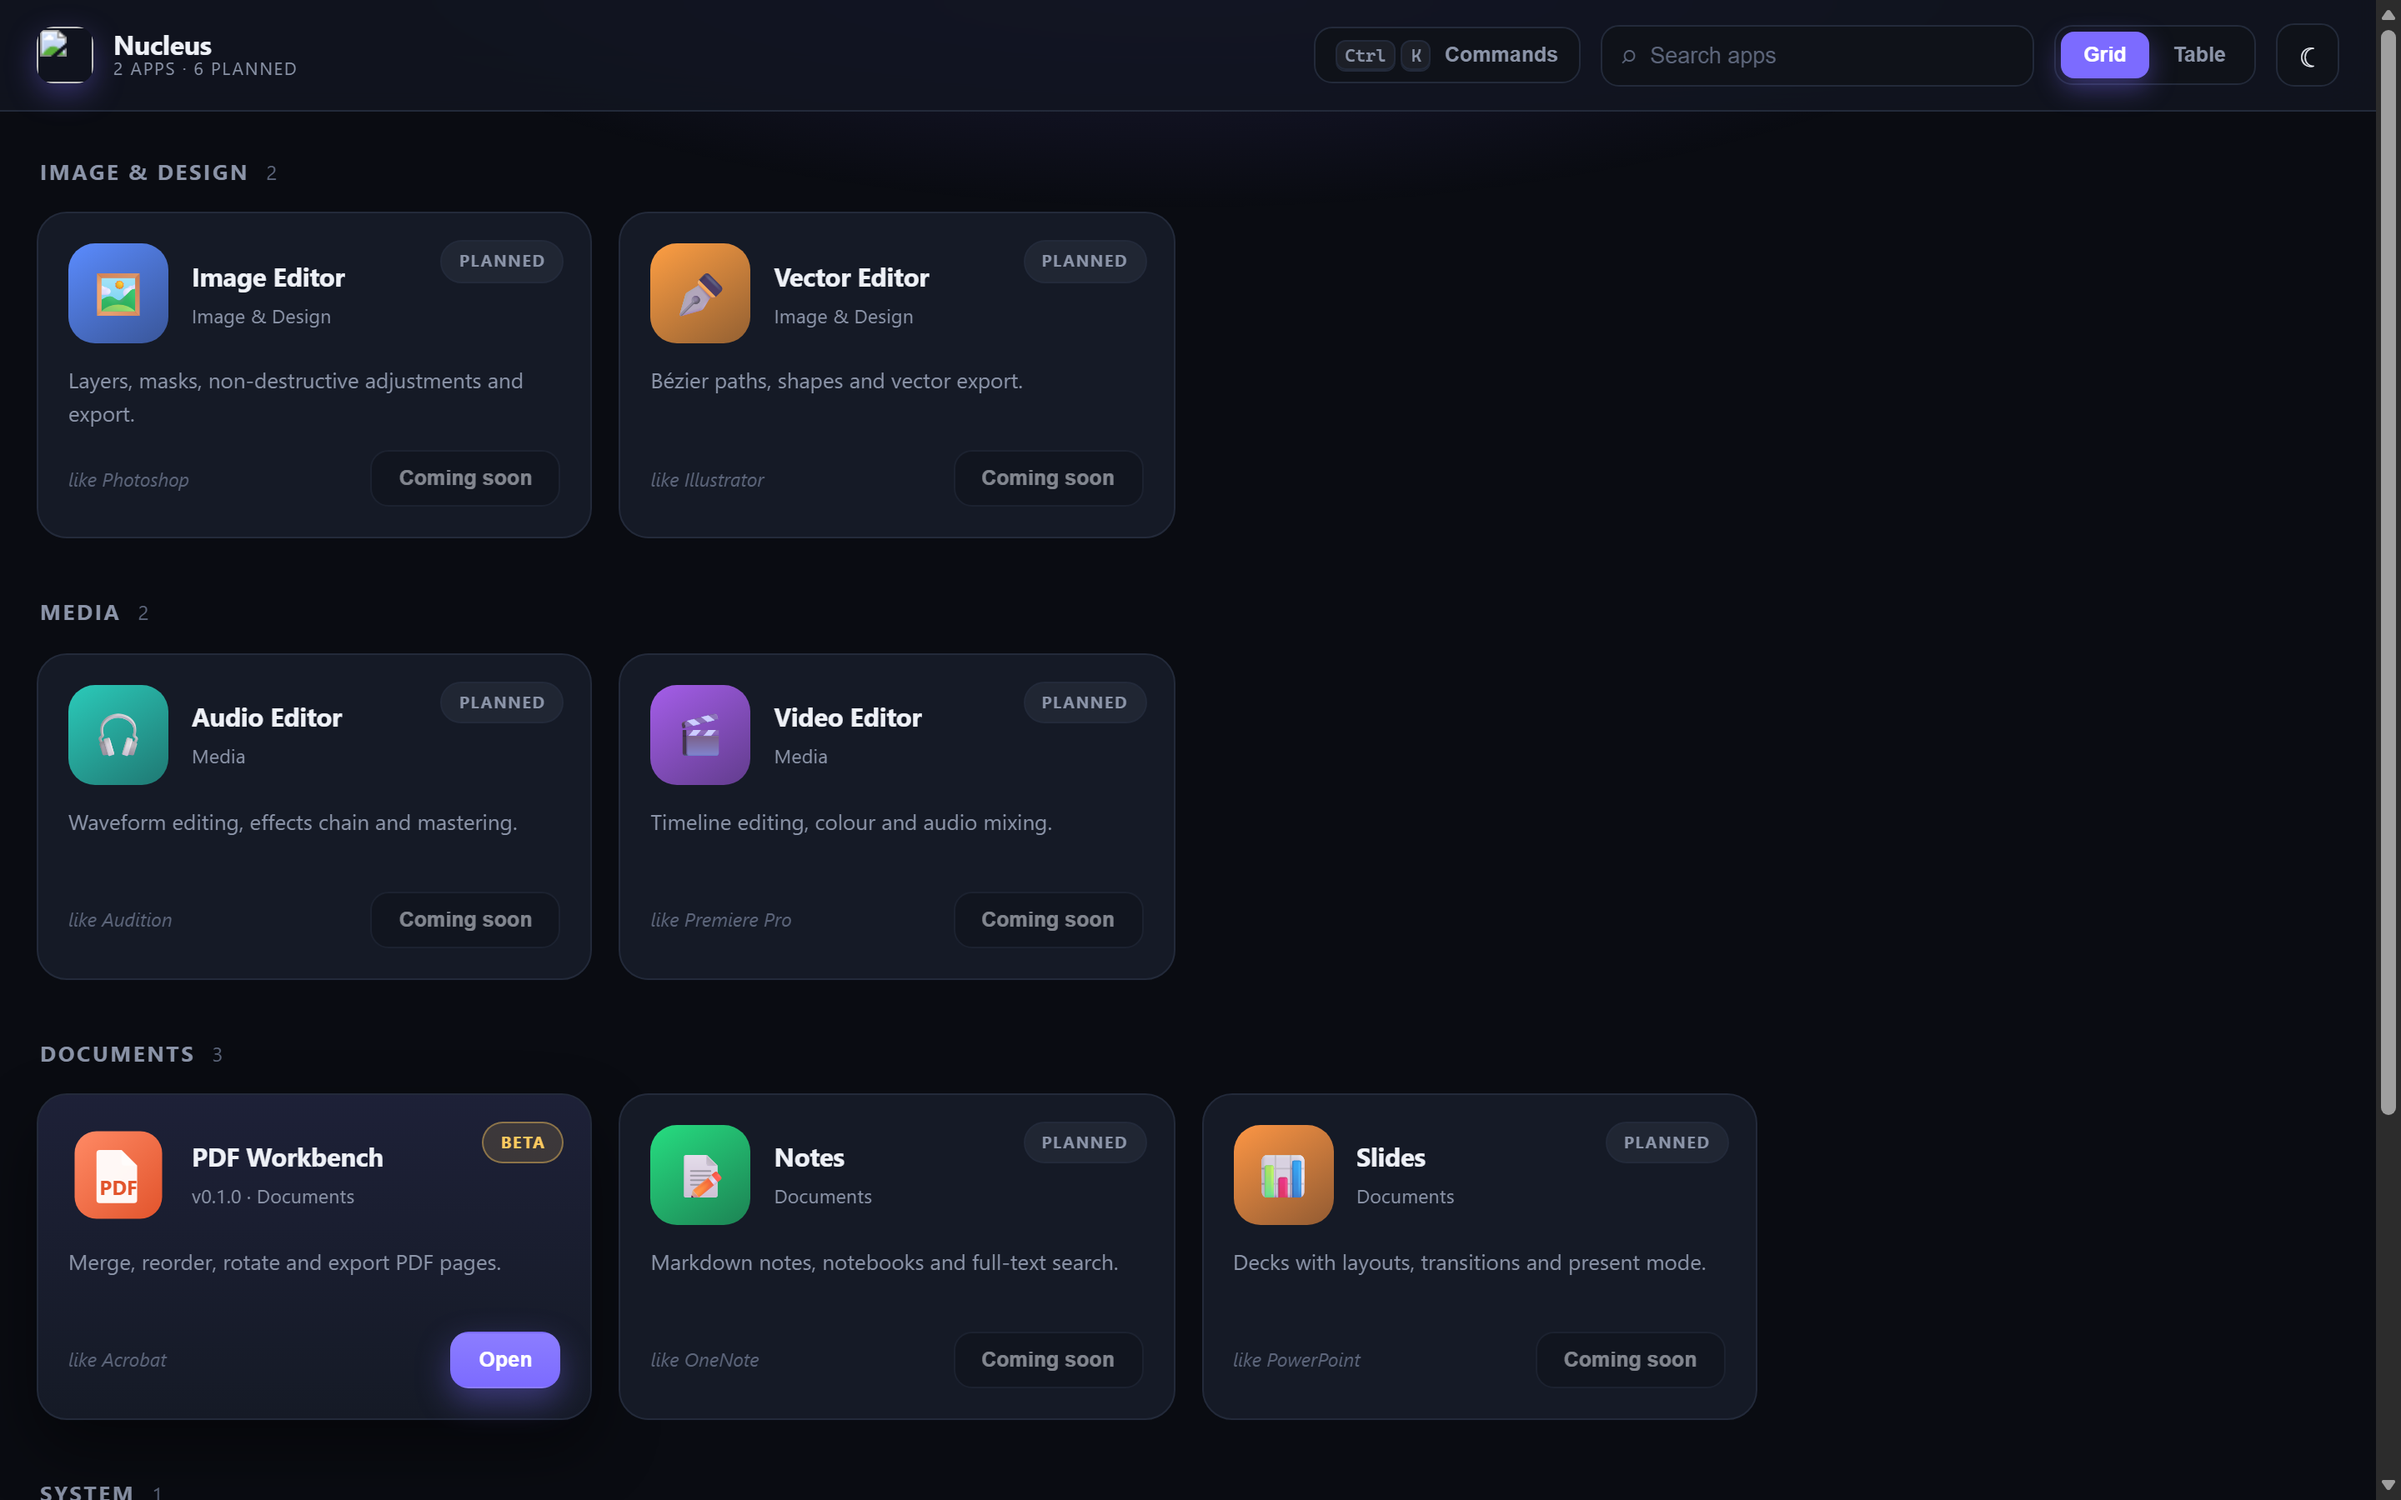
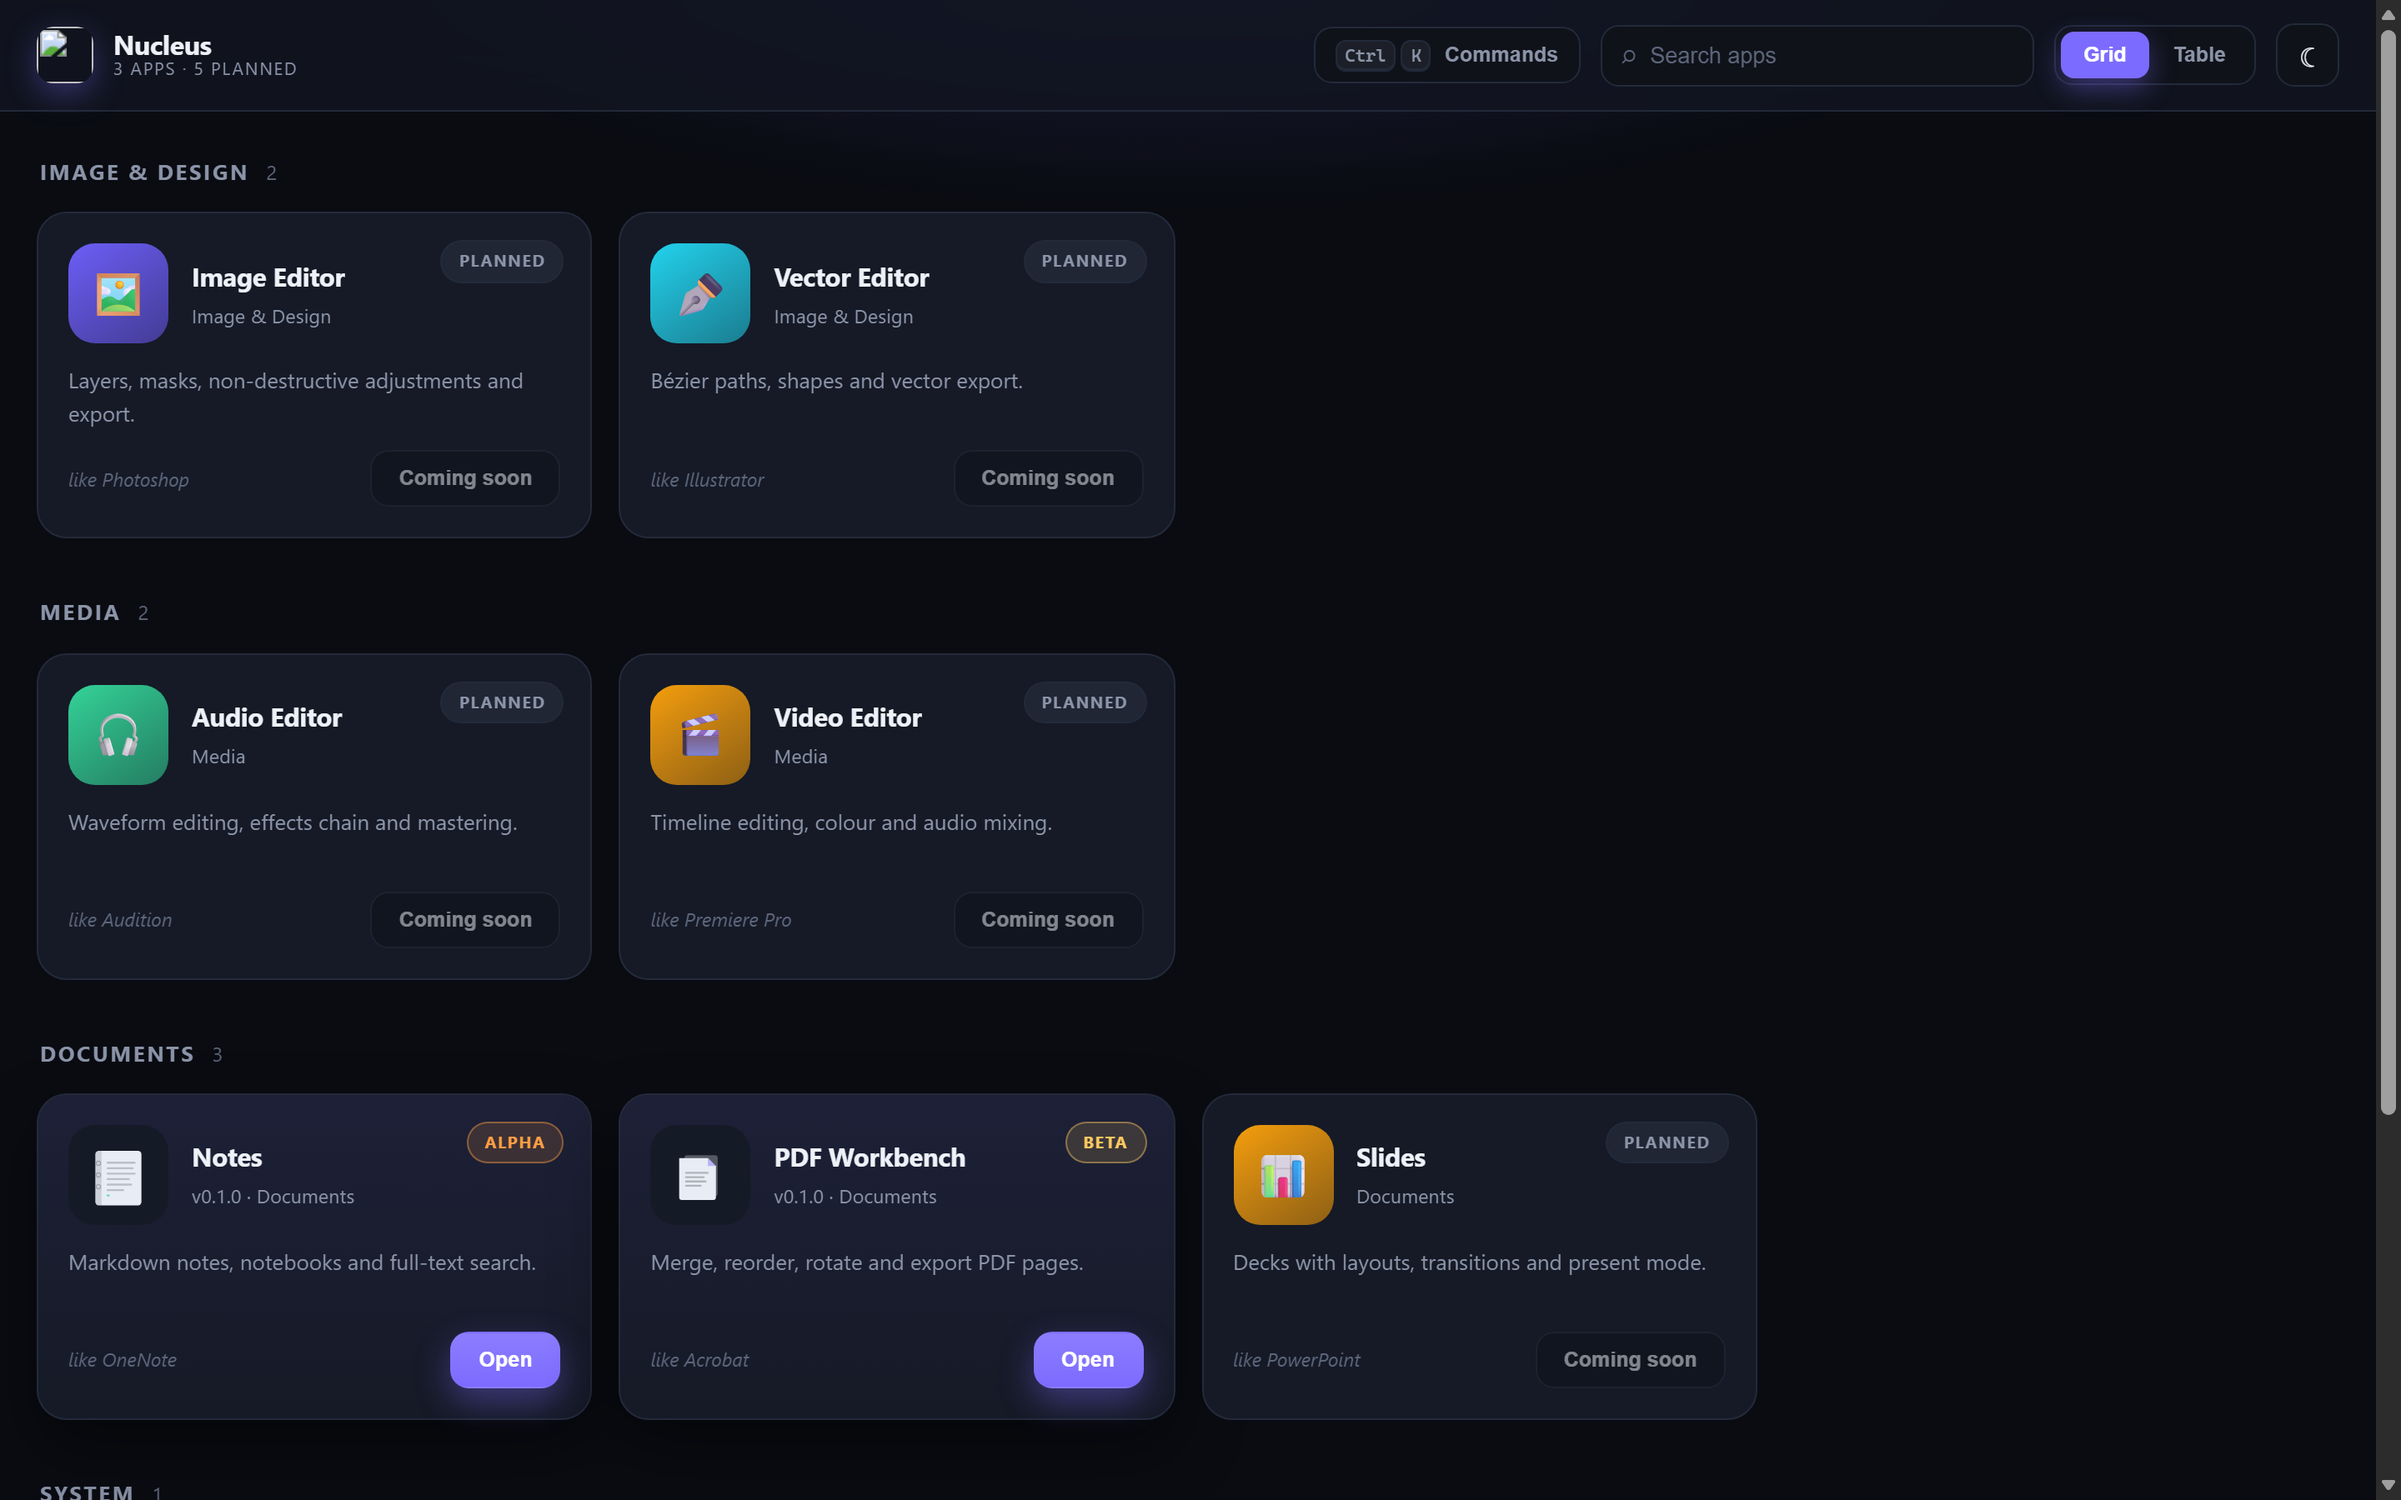
chore: brand assets on token palette + C2PA strip tool + doc updates

diff --git a/README.md b/README.md
@@ -55,12 +55,12 @@ different route:
 |-----|--------|--------------|
 | **Nucleus launcher** | alpha | Every app in one window: search, category groups, sortable table, Ctrl+K palette, detail panel, Open / Stop, themes. |
 | **PDF Workbench** | beta | Merge, reorder, rotate, delete pages, undo/redo, save/open projects, export. |
+| **Notes** | alpha | Markdown notes, notebooks with undo/redo and full-text search. |
 | Image Editor | planned | Layers, masks, non-destructive adjustments and export. |
 | Vector Editor | planned | Bézier paths, shapes and vector export. |
 | Video Editor | planned | Timeline editing, colour and audio mixing. |
 | Audio Editor | planned | Waveform editing, effects chain and mastering. |
 | Slides | planned | Decks with layouts, transitions and present mode. |
-| Notes | planned | Markdown notes, notebooks and full-text search. |
 
 ## Quickstart (Windows)
 
@@ -114,6 +114,7 @@ packages/pdf          # @nucleus/pdf command pack (import / rotate / move / remo
 packages/launcher     # app discovery, manifests, process runtime, windows, CLI
 apps/launcher         # the launcher window (grid/table UI + /api/apps)
 apps/pdf-workbench    # app #1: local HTTP server + web UI
+apps/notes            # app #2: Markdown notes on the command bus
 schemas/              # JSON Schema - the source of truth for codegen
 tools/                # codegen, validators, screenshot capture
 shell/                # native window host (WinForms + WebView2)
@@ -147,8 +148,8 @@ command bus as the GUI, so the whole suite is scriptable *and* promptable.
 ## Roadmap
 
 The phased plan, design decisions and risks live in [`ARCHITECTURE.md`](./ARCHITECTURE.md).
-Short version: launcher + first app (**done**) → more apps → JSON-RPC frontend → optional Tauri
-packaging for cross-platform native bundles.
+Short version: launcher + first three apps (**done**) → more apps → JSON-RPC frontend → optional
+Tauri packaging for cross-platform native bundles.
 
 ## Contributing
 

diff --git a/ARCHITECTURE.md b/ARCHITECTURE.md
@@ -51,6 +51,22 @@
 > `tools/screenshot.mjs`'s DOM self-check was updated and a second hero (`docs/screenshot-table.png`)
 > is captured. Assets (logo, wordmark, app icons) are still pending.
 
+> **Update #6 (2026-10-13) — Notes ships + brand assets.** App #2 is real: **Notes**
+> (`apps/notes`, `nucleus.notes`, category `text`, alpha, inspired by OneNote) — a Markdown
+> notebook with notebooks/folders, undo/redo and full-text search, running as a local server app
+> with `readyPath /api/state`. It was delivered as a full design→build handoff (code + assets),
+> then re-verified line-by-line against `@nucleus/core`'s actual API, recompiled under the repo's
+> strict TS config and smoke-tested over HTTP before merge. The roadmap now dedupes discovered
+> apps via `mergeRoadmap` (`packages/launcher/src/roadmap.ts`), so a real app hides its planned
+> card instead of listing twice. Brand assets landed in `docs/brand/` (logo PNG + `nucleus.svg`)
+> and `docs/brand/icons/` (7 recolored SVG icons on the token palette: INK `#0B0E14`, SURFACE
+> `#151B26`, TEXT `#E7ECF5`, ACCENT `#6D5EF8`, CYAN `#22D3EE`, RUN `#34D399`, AMBER `#F59E0B`);
+> every app icon is token-native. **Provenance strip:** the handoff packed C2PA metadata
+> (81-89 % of SVG weight + a `caBX` chunk in the PNG) — `tools/strip-c2pa.mjs` removes it from
+> SVGs (`<metadata>` + `xmlns:c2pa`) and PNGs (text/`eXIf`/`caBX` chunks, CRCs re-verified) for
+> anything committed to the repo. The short TikTok promo clips keep their provenance labels on
+> purpose (platform AI-labeling rules) and live outside the public checkout.
+
 **Codename:** `nucleus` · monorepo root `nucleus` · packages `@nucleus/*`
 
 ---
